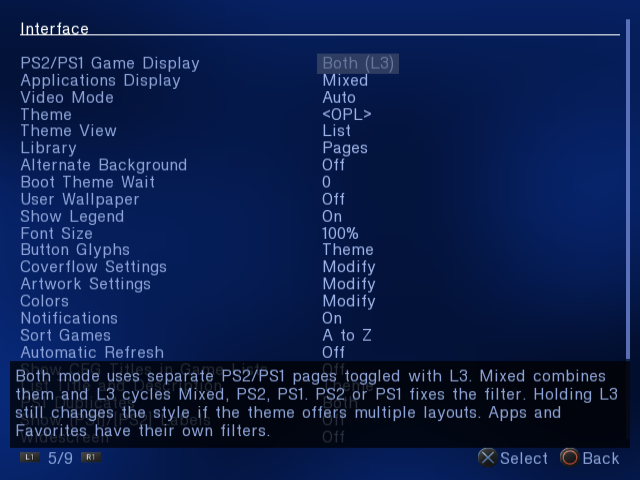
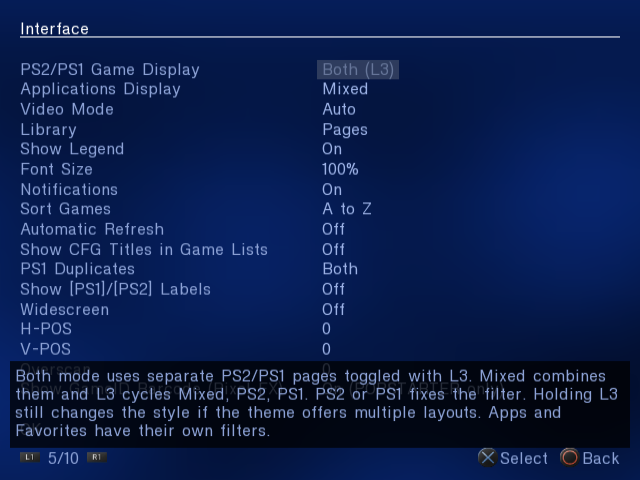
Document and capture the split settings pages

diff --git a/docs/THEME_ENGINE.md b/docs/THEME_ENGINE.md
@@ -18,7 +18,7 @@ value token, and built-in asset name the engine understands, including this fork
 
 ## PSBBN Flow
 
-With the `<OPL>` theme, select **PSBBN Flow** under **Settings → Interface → Theme View** (or hold L3 on the
+With the `<OPL>` theme, select **PSBBN Flow** under **Settings → Theme Settings → Theme View** (or hold L3 on the
 main page until it appears), then apply and save.
 It recreates the Game Collection of [CosmicScale](https://github.com/CosmicScale)'s
 [PSBBN Definitive Project](https://github.com/CosmicScale/PSBBN-Definitive-Project): black header
@@ -75,7 +75,7 @@ outgoing cover. The header and hint bands with their rules, the star field, the 
 Collection outline, the page list, the rim, the count, the cubic 25-frame animation and the
 distance shading belong to this renderer. The nebula is the theme's own `Background`
 (`default=psbbn_bg` in the built-in). The page list and count use the text colour, and the title
-uses the selected-text colour, from **Settings → Interface → Colors**.
+uses the selected-text colour, from **Settings → Theme Settings → Colors**.
 `coverflow_count`, `coverflow_scale`, `coverflow_anim`, `coverflow_dim` and
 `coverflow_cover_offset` affect `Coverflow` only. `PSBBNFlow` fixes centered alignment and
 aspect correction, supplies no mirrored reflection, and uses `width` for the square slot;
@@ -129,7 +129,7 @@ The devices sit in a slim sidebar on the left, one glyph each, the page on scree
 grid's first column opens it into a drawer with the devices' names; Up/Down there switch device (the grid
 shows that device at once), and Right, Cross or Circle go back to the covers. Hold the right stick to one
 side for half a second and the selected case turns over to its back cover (`COV2`), the way the stick
-leans; it stays turned until the stick turns it home. *Settings → Interface → Coverflow Settings → Grid
+leans; it stays turned until the stick turns it home. *Settings → Theme Settings → Layout Settings → Grid
 Layout* swaps the theme's shape for 4 x 2, 5 x 2, 3 x 2 Large or 6 x 3 Compact (6 x 2, 7 x 2, 5 x 2 and
 8 x 3 on a 16:9 picture), and *Dim Side Covers* there makes the vignette full strength. Idea: [KrahJohlito](https://github.com/KrahJohlito)
 (multi-view themes); the pages, slide, selection, vignette, case flip, sidebar, tiles and layouts follow
@@ -305,7 +305,7 @@ a block, **renumber** the ones after it so there are no holes.
 
 One `conf_theme.cfg` can describe several **views** of the main and info pages: `list`, `coverflow`,
 `psbbn` and `grid`. The user picks a view under
-**Settings → Interface → Theme View**, or holds **L3** for half a second on the main page to switch to
+**Settings → Theme Settings → Theme View**, or holds **L3** for half a second on the main page to switch to
 the next view the theme offers (a tap on L3 still cycles the library view). The picker and L3 list
 the `coverflow` view twice, as **Coverflow (3)** and **Coverflow (5)**: one view, drawn with 3 or 5
 covers (`coverflow_count`), so a theme declares `coverflow` once. Idea and design:
@@ -442,7 +442,7 @@ out for 16:9 already), and `scaled=0` images (16:9 still draws those full width)
 ### Alternate background (`alt=`) — *this fork*
 
 A theme can ship a second background in the same `conf_theme.cfg`, and the user picks it with
-**Settings → Interface → Alternate Background** (Off by default). Idea: [KrahJohlito](https://github.com/KrahJohlito) ("one theme, a
+**Settings → Theme Settings → Alternate Background** (Off by default). Idea: [KrahJohlito](https://github.com/KrahJohlito) ("one theme, a
 toggle switch").
 
 ```ini
@@ -507,7 +507,7 @@ embedded font for a slot.
 | Key | Value | Meaning |
 |---|---|---|
 | `coverflow_cover_offset` | int (−1024…1024, default 0) | Horizontal nudge for the Coverflow carousel (see §8). |
-| `list_cfg_text` | 0/1 (default 1) | `0` leaves the game CFG's `Title` and `Description` off the list pages: an `AttributeText` with `attribute=Title` or `attribute=Description` in a `main` family (`main`, `appsMain`, `favsMain`, `vcdMain`, `favsVcdMain`, `favsAppsMain`, and their view blocks). The info page keeps them. A word such as `on` reads as `0` and hides them too, as in [RIPPS2](https://gitlab.com/akilluminati247/RIPPS2). **Settings → Interface → List Title and Description** follows this key on **Theme**, its default. **On** and **Off** override it. From [RIPPS2](https://gitlab.com/akilluminati247/RIPPS2) ([akilluminati47](https://gitlab.com/akilluminati247), build 126). |
+| `list_cfg_text` | 0/1 (default 1) | `0` leaves the game CFG's `Title` and `Description` off the list pages: an `AttributeText` with `attribute=Title` or `attribute=Description` in a `main` family (`main`, `appsMain`, `favsMain`, `vcdMain`, `favsVcdMain`, `favsAppsMain`, and their view blocks). The info page keeps them. A word such as `on` reads as `0` and hides them too, as in [RIPPS2](https://gitlab.com/akilluminati247/RIPPS2). **Settings → Theme Settings → List Title and Description** follows this key on **Theme**, its default. **On** and **Off** override it. From [RIPPS2](https://gitlab.com/akilluminati247/RIPPS2) ([akilluminati47](https://gitlab.com/akilluminati247), build 126). |
 | `<key>_desc` | any value | Used in place of `<key>` while **List Title and Description** shows the CFG text on the list pages (On, or Theme when `list_cfg_text` does not hide it), so a theme can make room beside its list only then: `main16_enabled_desc=0` hides a cover, and a block whose only type is `main20_type_desc=AttributeText` exists only in that mode, so with the setting off no block reads the game's CFG. Changing the setting reloads a theme that has `_desc` keys. The Title and Description layout originated with CosmicScale's request, after [RIPPS2](https://gitlab.com/akilluminati247/RIPPS2)'s game list. *This fork.* |
 | `use_default` | 0/1 | Use OPL's embedded default assets for anything the theme omits. With `0`, the pictures stock OPL never had a name for (`mmce`, `udp_bd`, `udp_fs`, `fav`, `fav_mark`) still come from the built-in set when the theme has none, so a theme made for stock OPL shows an icon on the pages RiptOPL added. Ship your own (a transparent one to show nothing) to replace them. |
 | `use_real_height` | 0/1 | Lay out against the real screen height instead of 480. |
@@ -520,7 +520,7 @@ exactly as before.
 
 | Key | Value | Meaning |
 |---|---|---|
-| `glyph_set` | `theme` / `builtin` / `standard` / `white` | The button pictures every hint draws. `theme` (the default) uses the theme's own glyph PNGs, with the built-in ones filling gaps when `use_default=1`. `builtin` uses the built-in glyphs. `standard` and `white` are two sets built into the ELF, drawn from [RIPPS2](https://gitlab.com/akilluminati247/RIPPS2)'s Adapt and Grunge themes. **Settings → Interface → Button Glyphs** overrides this on every theme; its **Theme** choice follows this key. |
+| `glyph_set` | `theme` / `builtin` / `standard` / `white` | The button pictures every hint draws. `theme` (the default) uses the theme's own glyph PNGs, with the built-in ones filling gaps when `use_default=1`. `builtin` uses the built-in glyphs. `standard` and `white` are two sets built into the ELF, drawn from [RIPPS2](https://gitlab.com/akilluminati247/RIPPS2)'s Adapt and Grunge themes. **Settings → Theme Settings → Button Glyphs** overrides this on every theme; its **Theme** choice follows this key. |
 | `hints_hide` | hint list | Hints the theme leaves off the bar, e.g. `hints_hide=star,view`. |
 | `hints_order` | hint list | These hints come first, in this order. The rest follow in the order the page adds them. Example: `hints_order=run,info,menu`. |
 | `hints_labels` | 0/1 | `0` draws the glyphs alone, without the labels. `1` (the default) draws a glyph and its label. |
@@ -622,7 +622,7 @@ art declared after it.
 
 Images keyed on the **`ICO`** suffix (an `ItemIcon`, a `GameImage` with `pattern=ICO`, or an
 `ItemsList` with `decorator=ICO`) are the theme's disc art. The user can hide them with **Disc Artwork**
-(*Settings -> Interface -> Artwork Settings*, on by default), including the element's `default=` image.
+(*Settings → Theme Settings*, on by default), including the element's `default=` image.
 The independent **Logo Artwork** option similarly controls art keyed on **`LGO`**, such as
 `<GAME_ID>_LGO.png` files in `ART/` used by `GameImage pattern=LGO`, `ItemsList decorator=LGO`,
 or a theme's custom image element. Disabling it also suppresses the default image and overlays
@@ -934,18 +934,17 @@ Slots `favsVcdMain0`, `favsVcdMain1`, `favsVcdMain3`… are not declared here, s
 these carousels too.
 
 This example assumes a theme that already uses Coverflow. A `Coverflow` block in **any** family makes
-the whole theme a Coverflow theme: Left/Right steps through the list on every browse page and the
-Coverflow Settings menu appears. Adding one only to `favsVcdMain*` in a list-based theme therefore
-changes navigation on the device pages as well.
+the whole view a Coverflow view, so Left/Right steps through the list on every browse page. Adding
+one only to `favsVcdMain*` in a list-based view therefore changes navigation on the device pages as well.
 
 ### Global Coverflow tuning (NOT in the theme)
 
-These live in **`settings_riptopl.cfg`** and are exposed in the **Coverflow Settings** menu (shown
-while a Coverflow theme is active). They apply to *any* Coverflow theme:
+These live in **`settings_riptopl.cfg`**. Open **Theme Settings → Layout Settings** to change them.
+They apply to any theme's Coverflow view:
 
 | Setting / key | Values | Effect |
 |---|---|---|
-| `coverflow_count` | 3 or 5 | Number of covers shown. Set by the Theme View pick, Coverflow (3) or Coverflow (5); no longer on the Coverflow Settings page. |
+| `coverflow_count` | 3 or 5 | Number of covers shown. Set by the Theme View pick, Coverflow (3) or Coverflow (5); no longer on the Layout Settings page. |
 | `coverflow_scale` | px | How much the center cover grows. |
 | `coverflow_anim` | ms | Slide animation duration (0 = instant). |
 | `coverflow_dim` | 0/1 | Dim the non-center covers. |
@@ -975,8 +974,8 @@ Ember's single-hop `SharedMC.txt` redirects are supported. The first valid activ
 dedicated card supplies the icon; PS1 cards have no save timestamps. Deleted saves and damaged
 card chains are ignored. PS1 icons retain their pixel art rather than acquiring a 3D spin.
 
-It draws **nothing** while the user's **3D Save Icons** setting is off (*Settings → Interface →
-Artwork Settings*, off by default), on an app row, or when the
+It draws **nothing** while the user's **3D Save Icons** setting in **Theme Settings** is off (the
+default), on an app row, or when the
 game has no readable save. A theme can place it unconditionally, but should not put anything under it
 that depends on it being there. The cards are read only once the cursor has rested on a game for a
 quarter of a second, on the worker that also loads cover art.

diff --git a/docs/INTERFACE.md b/docs/INTERFACE.md
@@ -20,7 +20,7 @@ hides them. Back and L1/R1 keep edits for the session; **Save Changes** keeps th
 
 ## Theme selection
 
-**Settings → Interface → Theme** picks the theme: `<OPL>` or a disk theme from `THM/`, a `thm_<Name>` folder
+**Settings → Theme Settings → Theme** picks the theme: `<OPL>` or a disk theme from `THM/`, a `thm_<Name>` folder
 or one `thm_<Name>.tar` file (see [Theme engine](THEME_ENGINE.md), one-file themes).
 **Theme View** picks how it draws your games: **List**, **Coverflow (3)** or **Coverflow (5)** (the
 centered carousel with 3 or 5 covers), **PSBBN Flow** (the PSBBN Definitive Project Game Collection look) or **Grid** (rows and columns of
@@ -33,25 +33,25 @@ configurations start with `<OPL>` in the List view, 4:3 and Auto video mode; the
 separate settings. A configuration that saved the former `<Coverflow>` or `<PSBBN Flow>` theme loads
 `<OPL>` with that view, and the next save writes `<OPL>` plus `theme_view=`. The two Coverflow entries are saved as `theme_view=coverflow` plus
 `coverflow_count=3` or `5`, the keys earlier builds used, so an older configuration keeps its count
-and the Coverflow Settings page no longer has a Cover Count row.
+and the Layout Settings page no longer has a Cover Count row.
 
-**Library**, right under Theme View, picks **Pages** (every device keeps its own tab) or **All Games
+**Settings → Interface → Library** picks **Pages** (every device keeps its own tab) or **All Games
 List** (one page with the games of every started device; see [Game library](GAME-LIBRARY.md#all-games-list)).
 It works with every view and is the same `all_games` setting as **Game Sources → All Games List**.
 
-**Alternate Background**, under Library, shows the theme's second background when its author gave one
+**Alternate Background** shows the theme's second background when its author gave one
 (`alt=` in `conf_theme.cfg`; idea: [KrahJohlito](https://github.com/KrahJohlito)), so one theme can ship two looks. It is Off on fresh
 configurations and saved as `theme_alt_bg=1`. A theme without `alt=` looks the same either way, and only
 a theme with `alt=` is reloaded when the setting changes. Per-game background art still wins over the
 theme's picture while a game is selected. See
 [THEME_ENGINE.md, Alternate background](THEME_ENGINE.md#alternate-background-alt--this-fork).
 
-**Boot Theme Wait**, under Alternate Background, is how many seconds (0 to 10) the start-up screen waits
+**Boot Theme Wait** in Theme Settings is how many seconds (0 to 10) the start-up screen waits
 for your saved theme while the drive that holds it is still starting up, so the built-in theme does not show
 for a moment first. It is Off (0) on fresh configurations: the menu opens right away and the saved theme
 replaces the built-in one as soon as its drive is up. Saved as `boot_theme_wait`; 6 is the old fixed wait.
 
-**User Wallpaper**, under Boot Theme Wait, draws your own picture behind the main pages (games, apps,
+**User Wallpaper** draws your own picture behind the main pages (games, apps,
 PS1 and Favourites) in any theme, the built-in one included (requested by Berion). Put it beside
 `settings_riptopl.cfg`, in the folder your settings are saved in, named `wallpaper.png` (for example
 `mc0:/OPL/wallpaper.png`). It must be a PNG of at most 512 x 512 pixels with an 8-bit (256 colour) palette; it is
@@ -65,7 +65,7 @@ and a message says why. The info pages keep the theme's own background, and per-
 In the flow views, Left/Right browse covers. In Coverflow, Down focuses the device bar when a theme
 shows one. In PSBBN Flow and Coverflow without a bar, Up/Down switch devices. L1/R1 jump 15 titles;
 List and Grid use page jumps. R3 toggles Favorite. See [Controls](CONTROLS.md).
-**Coverflow Settings** tunes the `Coverflow` renderer; PSBBN Flow uses its fixed layout and
+**Layout Settings** tunes the `Coverflow` renderer; PSBBN Flow uses its fixed layout and
 25-frame glide. All four views share the editable palette, artwork and audio settings.
 Theme authors declare views with `views=` and `<view>.` blocks; see the
 [Theme Engine reference](THEME_ENGINE.md#views-multi-view-themes--this-fork). Idea and design: [KrahJohlito](https://github.com/KrahJohlito).
@@ -90,7 +90,7 @@ spacing recalculated. Explicit custom-theme point sizes stay unchanged.
 
 ## Button glyphs
 
-**Settings → Interface → Button Glyphs.** Choose **Theme**, **Built-in**, **Standard** or **White**.
+**Settings → Theme Settings → Button Glyphs.** Choose **Theme**, **Built-in**, **Standard** or **White**.
 
 These are the button pictures in the hint bar. **Theme** uses the theme's own glyphs, or the set its
 `glyph_set` key names. Each of the other choices replaces the glyphs on every theme. **Built-in** is the
@@ -104,7 +104,7 @@ themes. The change shows on the next frame and is saved with your settings. Them
 
 ## Show Legend
 
-**Settings → Interface → Show Legend**, under User Wallpaper (requested by Berion). **Off** hides the button
+**Settings → Interface → Show Legend** (requested by Berion). **Off** hides the button
 legend at the bottom of the menu and of the game info page in every theme; the buttons keep working. **On**,
 the default, draws it as the theme lays it out (its `hints_*` keys). The change shows on the next frame and is
 saved as `show_legend=0`. *Not yet tested on hardware.*
@@ -113,7 +113,7 @@ saved as `show_legend=0`. *Not yet tested on hardware.*
 
 ## List Title and Description
 
-**Settings → Interface → List Title and Description.** Choose **Theme**, **On** or **Off**.
+**Settings → Theme Settings → List Title and Description.** Choose **Theme**, **On** or **Off**.
 
 Some themes show the `Title` and `Description` from each game's CFG beside the game list. **Theme**, the
 default, shows them the way the theme sets them, and a theme can leave them off its list pages with

diff --git a/docs/SETTINGS.md b/docs/SETTINGS.md
@@ -148,29 +148,42 @@ Settings**.
 | PS2/PS1 Game Display | Both (L3 switches), Mixed, PS2 or PS1 on each device page. See [VCD.md](VCD.md). | `default_game_view` |
 | Applications Display | How the Applications page lists apps. | `apps_display` |
 | Video Mode | The menu's video mode (not the games'; that is GSM Defaults on Game Launching). | `vmode` |
-| Theme | The menu theme. See [INTERFACE.md](INTERFACE.md). | `theme` |
-| Theme View | List, Coverflow (3), Coverflow (5), PSBBN Flow, Grid or Grid (7x2); holding L3 cycles it too. | `theme_view`, `coverflow_count`, `grid_compact` |
 | Library | Pages or All Games. Same setting as Game Sources → All Games List. | `all_games` |
-| Alternate Background | The theme's `alt=` background. | `theme_alt_bg` |
-| Boot Theme Wait | Seconds the start-up screen waits for a saved theme's drive. | `boot_theme_wait` |
-| User Wallpaper | Draws `wallpaper.png` from the settings folder behind the menu pages, in any theme (512x512 at most, 8-bit palette). See [INTERFACE.md](INTERFACE.md). | `wallpaper` |
 | Show Legend | Shows the button legend on the menu and info pages; off hides it in every theme. | `show_legend` |
 | Font Size | Small, Default or Large. | `font_size` |
-| Button Glyphs | The theme's glyphs or a built-in set. | `glyph_set` |
-| Coverflow Settings *(Modify)* | Center scale, animation speed, side-cover dimming, grid layout. | `coverflow_scale`, `coverflow_anim`, `coverflow_dim`, `grid_layout` |
-| Artwork Settings *(Modify)* | Cover Art, Disc Artwork, Logo Artwork, Background Art, 3D Save Icons, Cover Art .tar Archive, Art Delay. | `enable_coverart`, `enable_discart`, `enable_logoart`, `enable_bgart`, `enable_save_icons`, `enable_art_tar`, `art_delay` |
-| Colors *(Modify)* | Text, selected, UI, title, background and plasma colours, and Reset Colors. | `text_color`, `sel_text_color`, `ui_text_color`, `title_color`, `bg_color`, `plasma_blend_color` |
 | Notifications | Shows short notices (device found, saved). | `enable_notifications` |
 | Sort Games | Off, A to Z or Last played. | `autosort` |
 | Automatic Refresh | Re-reads game lists while the menu is open. | `autorefresh` |
 | Show CFG Titles in Game Lists | Uses the title from a game's CFG file. See [CFG-TITLES.md](CFG-TITLES.md). | `cfg_titles_in_lists` |
-| List Title and Description | Theme, On or Off. On displays the game's CFG Title and Description in supported list layouts. | `list_cfg_text` |
 | PS1 Duplicates | A PS1 game found for both cores: Both, Ember or POPSTARTER. | `ps1_duplicates` |
 | Show [PS1]/[PS2] Labels | Marks each row with its system. | `game_type_labels` |
 | Widescreen | 16:9 menu. | `wide_screen` |
 | H-POS, V-POS | Moves the picture (kept per video mode). | `xoff`, `yoff` |
 | Overscan | Shrinks the picture to fit the TV. | `overscan` |
 | Show GameID Barcode (Pixel FX) | Sends the game ID to Pixel FX scalers: All, POPSTARTER only, PS2 only or Off. | `apply_gameid` (PS2), `popstarter_retrogem_gameid` (PS1) |
+
+## Theme Settings
+
+Open **Theme Settings** from the Settings index, or press **R1** from **Interface**. The artwork controls are on the page. Layout Settings and Colors have their own editors.
+
+| Row | What it does | Key |
+| --- | --- | --- |
+| Theme | The menu theme. See [INTERFACE.md](INTERFACE.md). | `theme` |
+| Theme View | List, Coverflow (3), Coverflow (5), PSBBN Flow, Grid or Grid (7x2); holding L3 cycles it too. | `theme_view`, `coverflow_count`, `grid_compact` |
+| Layout Settings *(Modify)* | Center scale, animation speed, side-cover dimming, grid layout. | `coverflow_scale`, `coverflow_anim`, `coverflow_dim`, `grid_layout` |
+| Cover Art | Loads cover art for games. | `enable_coverart` |
+| Disc Artwork | Shows disc art and ICO images. | `enable_discart` |
+| Logo Artwork | Shows LGO images. | `enable_logoart` |
+| Background Art | Uses per-game artwork for the background. | `enable_bgart` |
+| 3D Save Icons | Shows a game's save icon where the theme places one. | `enable_save_icons` |
+| Cover Art .tar Archive | Also reads artwork from `ART/art.tar`. | `enable_art_tar` |
+| Art Delay | Frames the cursor must rest on a game before its art starts loading. | `art_delay` |
+| Alternate Background | The theme's `alt=` background. | `theme_alt_bg` |
+| User Wallpaper | Draws `wallpaper.png` from the settings folder behind the menu pages, in any theme (512x512 at most, 8-bit palette). See [INTERFACE.md](INTERFACE.md). | `wallpaper` |
+| Colors *(Modify)* | Text, selected, UI, title, background and plasma colours, and Reset Colors. | `text_color`, `sel_text_color`, `ui_text_color`, `title_color`, `bg_color`, `plasma_blend_color` |
+| Button Glyphs | The theme's glyphs or a built-in set. | `glyph_set` |
+| List Title and Description | Theme, On or Off. On displays the game's CFG Title and Description in supported list layouts. | `list_cfg_text` |
+| Boot Theme Wait | Seconds the start-up screen waits for a saved theme's drive. | `boot_theme_wait` |
 
 ## Game Launching
 

diff --git a/README.md b/README.md
@@ -59,7 +59,7 @@ Review the LICENSE file for further details.<br><br>
 
 ## See RiptOPL
 
-The built-in PSBBN theme shares the same library across List, Grid, Coverflow and PSBBN Flow. Change **Settings → Interface → Theme View**, or hold **L3** while browsing.
+The built-in PSBBN theme shares the same library across List, Grid, Coverflow and PSBBN Flow. Change **Settings → Theme Settings → Theme View**, or hold **L3** while browsing.
 
 | List | Grid |
 | --- | --- |
@@ -176,7 +176,7 @@ This section is a fast feature map to improve discoverability of core OPL capabi
 - **MMCE support:** OPL supports MMCE devices using the Memory Card Mass Storage protocol for SD-based loading through the Memory Card slot.
 - **MX4SIO support:** OPL supports MX4SIO adapters for SD-based loading through the Memory Card slot. See the **USB/MMCE/MX4SIO/iLink** section for filesystem and layout guidance.
 - **Internal HDD exFAT support:** the internal ATA HDD can be loaded as **exFAT** — mounted through the Block Device Manager (BDMAssault / "BDMA") into the same `massN:` namespace as USB/MX4SIO — in addition to APA/PFS, including GPT partitioning for large disks, for PS2 **and** PS1 (POPSTARTER) games. See the **HDD** section for formatting, the BDMA equip, and fragmentation guidance.
-- **Themes:** Place theme assets in the `THM` folder, then select and apply themes from OPL settings. **UDPFS Files** also reads `udpfs:/THM` once the server is reachable: with Network Connectivity **Auto** this is available during boot; with **Manual** it appears after the UDPFS page starts the connection. The built-in `<OPL>` theme has four views, List, Coverflow, PSBBN Flow and Grid: pick one under **Settings → Interface → Theme View**, or hold L3 on the main page to switch (fresh configurations start with List) — see the [Theme Engine reference](docs/THEME_ENGINE.md) to author your own themes.
+- **Themes:** Place theme assets in the `THM` folder, then select and apply themes from OPL settings. **UDPFS Files** also reads `udpfs:/THM` once the server is reachable: with Network Connectivity **Auto** this is available during boot; with **Manual** it appears after the UDPFS page starts the connection. The built-in `<OPL>` theme has four views, List, Coverflow, PSBBN Flow and Grid: pick one under **Settings → Theme Settings → Theme View**, or hold L3 on the main page to switch (fresh configurations start with List) — see the [Theme Engine reference](docs/THEME_ENGINE.md) to author your own themes.
 - **Cheats / PS2RD:** OPL supports PS2RD `.cht` cheat files from the `CHT` folder, with both auto-apply and launch-time selection modes.
 - **Pad emulation (DS3/DS4):** On any build with PADEMU (the default), a DualShock 3 or DualShock 4 plugged into the console's USB port can navigate the OPL menu right away, with nothing to enable first. To play games with it, turn on **Pad Emulator** under **Settings**, then **Controller Settings** (globally, or per game via **Game Settings**). One caveat: pad emulation shares the SIO2 bus with MX4SIO SD-card loading, so running both can cause a game to hang on a black screen; leave Pad Emulator off if you boot from an MX4SIO card.
 - **GSM (video mode handling):** Builds that include GSM allow game video mode handling/overrides for display compatibility.
@@ -192,7 +192,7 @@ This build layers several features on top of upstream OPL:
   the game/app list, with an alpha-faded reflection, animated scrolling, 3 or 5 covers
   (the **Coverflow (3)** and **Coverflow (5)** Theme Views), and aspect-correct covers in both 4:3
   and widescreen. Tune it live under
-  **Coverflow Settings** (shown while the Coverflow view is active). Authoring details
+  **Theme Settings → Layout Settings**. Authoring details
   and every theme value live in the **[Theme Engine reference](docs/THEME_ENGINE.md)**.
 - **PSBBN Flow view (built-in, optional):** the [PSBBN Definitive Project](https://github.com/CosmicScale/PSBBN-Definitive-Project) Game Collection look: a
   rounded square focal cover with a tail of covers turned away into the distance, adapted from
@@ -208,7 +208,7 @@ This build layers several features on top of upstream OPL:
   **`ART/art.tar`** (entries named `<GAMEID>_<suffix>.png`; VCD entries first use the filename without
   `.VCD`, or the displayed `PP.<name>` / `__.<name>` install name, then fall back to a parsed PS1 ID)
   instead of thousands of loose files.
-  Enable **Cover Art .tar Archive** under **Interface → Artwork Settings** (default **off**); when on, each
+  Enable **Cover Art .tar Archive** under **Theme Settings** (default **off**); when on, each
   cover is read from the archive and *falls back to the loose `.png`* when it isn't there, so the
   two coexist. A small `art_cache.bin` index written beside the archive lets later boots skip the
   re-scan. The format matches wOPL/sOPL art packs, so existing `.tar` packs work unchanged.

diff --git a/docs/UI-CAPTURES.md b/docs/UI-CAPTURES.md
@@ -1,6 +1,6 @@
 # RiptOPL interface captures
 
-RiptOPL includes one PSBBN theme with six layouts. Open **Settings → Interface → Theme View** to choose one, or hold **L3** while browsing the library to move to the next layout. The button bar stays in the same position across layouts and labels L3 **View/Filter**. Tap it to cycle the library filters, or hold it to change the layout. When both actions are available, a tap shows **Hold for Theme** and a hold shows **Tap for Filter**. Both tips include the L3 icon. See [Controls](CONTROLS.md) for navigation within each layout.
+RiptOPL includes one PSBBN theme with six layouts. Open **Settings → Theme Settings → Theme View** to choose one, or hold **L3** while browsing the library to move to the next layout. The button bar stays in the same position across layouts and labels L3 **View/Filter**. Tap it to cycle the library filters, or hold it to change the layout. When both actions are available, a tap shows **Hold for Theme** and a hold shows **Tap for Filter**. Both tips include the L3 icon. See [Controls](CONTROLS.md) for navigation within each layout.
 
 ## Library views
 
@@ -26,9 +26,13 @@ Press **Square** on a game. The information screen can show CFG metadata and mat
 
 ## Settings and game options
 
-| Settings categories | Game Sources | Interface |
-| --- | --- | --- |
-| ![Settings categories](assets/ui/settings-overview.png) | ![Game Sources showing device and start-mode controls](assets/ui/game-sources.png) | ![Interface settings with theme controls](assets/ui/interface-settings.png) |
+| Settings categories | Game Sources |
+| --- | --- |
+| ![Settings categories](assets/ui/settings-overview.png) | ![Game Sources showing device and start-mode controls](assets/ui/game-sources.png) |
+
+| Interface | Theme Settings |
+| --- | --- |
+| ![Interface with library, readability and video settings](assets/ui/interface-settings.png) | ![Theme Settings with the artwork controls on the page](assets/ui/theme-settings.png) |
 
 Press **Triangle** on a PS2 game for per-game options.
 
@@ -46,7 +50,7 @@ Press **Triangle** on a PS2 game for per-game options.
 
 ## Build and sample library
 
-- **Loader:** standard RiptOPL, LLVM/Clang, source [`e74731d8`](https://github.com/NathanNeurotic/RiptOPL/commit/e74731d8030065ee2949445c329dc26b6f155e68).
+- **Loader:** standard RiptOPL, LLVM/Clang. The library, information and per-game images use [`e74731d8`](https://github.com/NathanNeurotic/RiptOPL/commit/e74731d8030065ee2949445c329dc26b6f155e68). The Settings images use [`6745b338`](https://github.com/NathanNeurotic/RiptOPL/commit/6745b3382d5c18aacd8f859d70332947a0a61b3f).
 - **Emulator:** [RIPPCSX2](https://gitlab.com/akilluminati247/RIPPCSX2). The library and per-game captures are widescreen. The general Settings screens use 4:3.
 - **Library:** twelve non-bootable placeholder disc files on an isolated USB disk image. The titles and serials are used to demonstrate artwork and metadata matching. These captures verify menu rendering and navigation in the emulator. Launch compatibility is checked separately on real hardware.
 - **Artwork:** covers from [xlenore/ps2-covers](https://github.com/xlenore/ps2-covers), matched against the PCSX2 GameIndex. Info artwork from [Luden's OPL artwork archive](https://github.com/Luden02/psx-ps2-opl-art-database). Artwork belongs to its respective owners. See the [capture manifest](assets/ui/capture-manifest.json) for build and image hashes, and [the earlier artwork manifest](https://github.com/NathanNeurotic/RiptOPL/blob/1d4b642eab3a9e54f86197120b7fc637e05fc11f/docs/assets/ui/capture-manifest.json) for the sample artwork sources.

diff --git a/docs/DEFAULTS.md b/docs/DEFAULTS.md
@@ -10,13 +10,13 @@ Settings row, the page it is on and the key it is saved under, see
 | --- | --- | --- |
 | Menu aspect ratio | 4:3; Widescreen off | Settings → Interface |
 | Menu video mode | Auto | Settings → Interface |
-| Theme | Built-in `<OPL>` | Settings → Interface → Theme |
-| Theme View | Default (List for `<OPL>`); Coverflow (3), Coverflow (5), PSBBN Flow, Grid and Grid (7x2) are optional views | Settings → Interface → Theme View, or hold L3 |
+| Theme | Built-in `<OPL>` | Settings → Theme Settings → Theme |
+| Theme View | Default (List for `<OPL>`); Coverflow (3), Coverflow (5), PSBBN Flow, Grid and Grid (7x2) are optional views | Settings → Theme Settings → Theme View, or hold L3 |
 | Library | Pages (All Games List off) | Settings → Interface → Library, or Game Sources → All Games List |
-| Alternate Background | Off (the theme's `default=` background) | Settings → Interface → Alternate Background |
-| Boot Theme Wait | Off (0 s: the menu opens without waiting for the saved theme) | Settings → Interface → Boot Theme Wait |
-| Cover and disc artwork | On | Settings → Interface → Artwork Settings |
-| Per-game background art | Off | Settings → Interface → Artwork Settings |
+| Alternate Background | Off (the theme's `default=` background) | Settings → Theme Settings → Alternate Background |
+| Boot Theme Wait | Off (0 s: the menu opens without waiting for the saved theme) | Settings → Theme Settings → Boot Theme Wait |
+| Cover and disc artwork | On | Settings → Theme Settings |
+| Per-game background art | Off | Settings → Theme Settings |
 | Notifications | On | Settings → Interface |
 | PS2 logo | On | Settings → Game Launching |
 | Sound effects, boot sound, background music | Off; stored volume 90 | Settings → Audio Settings |
@@ -39,7 +39,7 @@ setting alone does not supply music. Storage discovery and saved configuration
 can affect the active presentation after initial defaults are applied.
 
 To use the widescreen/carousel presentation, select **Widescreen: On** and
-**Theme View: Coverflow (3)** or **Coverflow (5)** under **Settings → Interface** (theme `<OPL>`), apply, and save.
+**Theme View: Coverflow (3)** or **Coverflow (5)** under **Settings → Theme Settings** (theme `<OPL>`), apply, and save.
 Coverflow supports both 4:3 and 16:9; selecting it does not toggle widescreen.
 The 720p and 1080i video modes are always drawn as 16:9, whatever the Widescreen setting.
 The carousel starts with three covers, Large center scale (45), 200 ms animation and

diff --git a/docs/GAME-LIBRARY.md b/docs/GAME-LIBRARY.md
@@ -17,8 +17,7 @@ These library features came from [RIPPS2](https://gitlab.com/akilluminati247/RIP
 
 ## All Games list
 
-Turn it on with **Settings → Interface → Library: All Games List** (right under Theme View, and it works
-with every view) or **Game Sources → All Games List**; both are the same setting.
+Turn it on with **Settings → Interface → Library: All Games List** (it works with every view) or **Game Sources → All Games List**; both are the same setting.
 With **All Games List** on, the Favourites page becomes **All Games**: one list of the PS2 games,
 PS1 games and apps of every device that is started. Device tabs whose games are on it step aside,
 and so does the Apps tab once the apps are on it. All Games starts the apps itself when

diff --git a/docs/CONTROLS.md b/docs/CONTROLS.md
@@ -8,7 +8,7 @@ Two settings change what you read below, so check them first if the tables do no
   **Cross = confirm, Circle = back**, which is the default everywhere except **Japanese consoles**,
   where RiptOPL starts with Circle as confirm to match the regional convention. If Circle is your
   select button, swap those two everywhere, including the Settings screens.
-* **Coverflow (3), Coverflow (5), PSBBN Flow, Grid and Grid (7x2)** (*Settings → Interface → Theme View*, or hold L3) change the navigation on
+* **Coverflow (3), Coverflow (5), PSBBN Flow, Grid and Grid (7x2)** (*Settings → Theme Settings → Theme View*, or hold L3) change the navigation on
   the game list. The layouts are given below.
 
 ---
